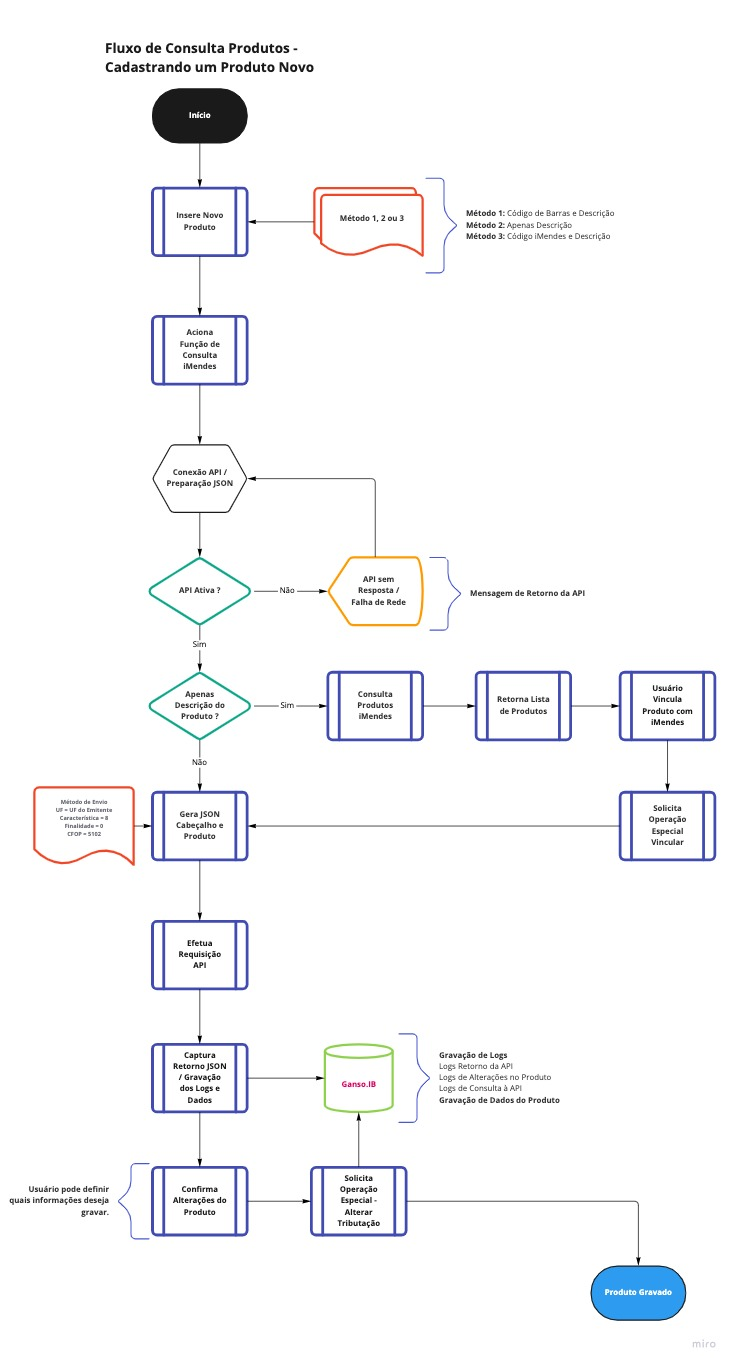
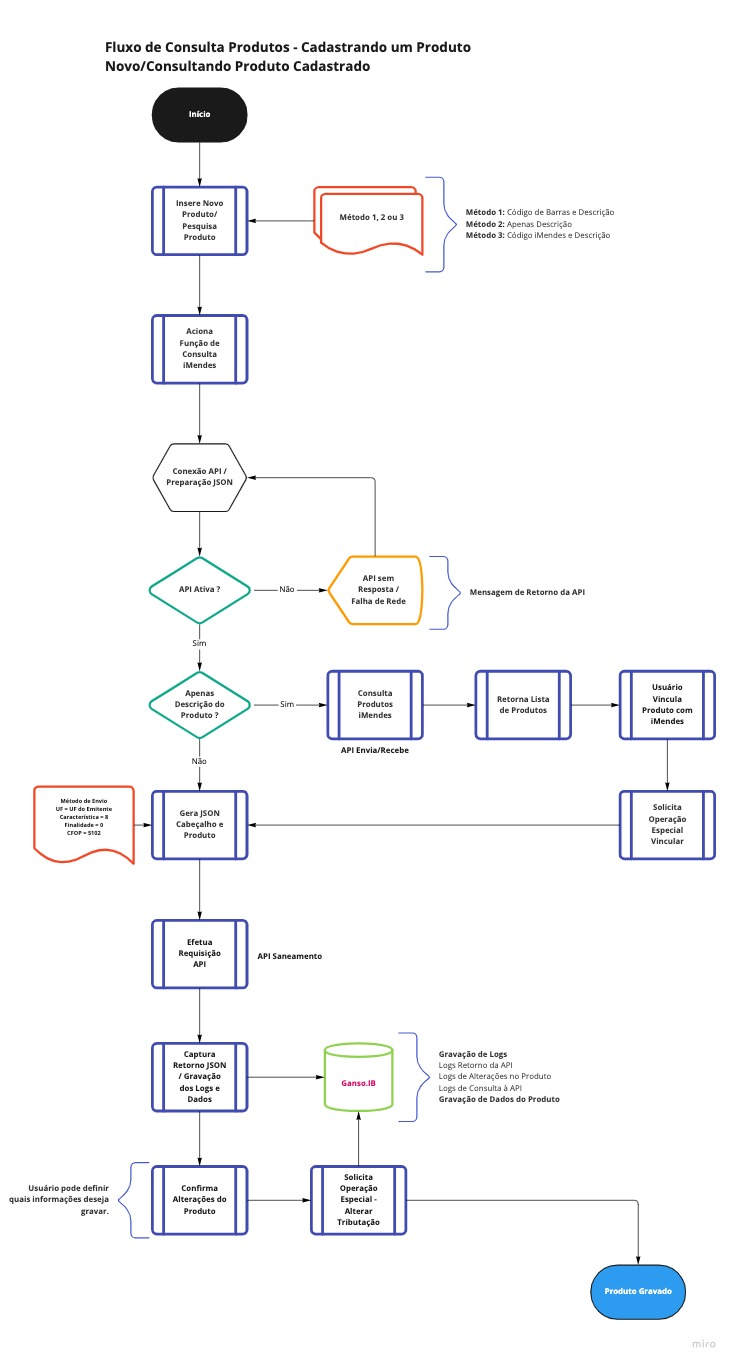
Add Batch Flow
- batch flow
- rules for batch search
- new elementos

diff --git a/Requirements.md b/Requirements.md
@@ -29,15 +29,20 @@
       - [Destino: Tabela Produto Parâmetros](#destino-tabela-produto-parâmetros)
   - [Recurso 2 - Consulta Tributos em Lote - Gerenciador de Tributação](#recurso-2---consulta-tributos-em-lote---gerenciador-de-tributação)
     - [Regras da Consulta em Lote](#regras-da-consulta-em-lote)
-    - [Métodos Básicos](#métodos-básicos)
+    - [Métodos Padrão](#métodos-padrão)
       - [Interface do Usuário](#interface-do-usuário)
-      - [Comportamento da Interface do Usuário](#comportamento-da-interface-do-usuário)
+      - [Validações da Interface do Usuário](#validações-da-interface-do-usuário)
+    - [Fluxo de Consulta em Lote](#fluxo-de-consulta-em-lote)
     - [Métodos Avançados](#métodos-avançados)
       - [Consulta Produtos Pendentes ou Devolvidos](#consulta-produtos-pendentes-ou-devolvidos)
       - [Remover Produtos da Base iMendes](#remover-produtos-da-base-imendes)
   - [Controle de Acesso e Acessos Restritos](#controle-de-acesso-e-acessos-restritos)
   - [Tabela de Validações do MVP](#tabela-de-validações-do-mvp)
   - [Relatórios Gerenciais - Logs](#relatórios-gerenciais---logs)
+- [Simulações](#simulações)
+  - [Consulta Cadastro de Produtos](#consulta-cadastro-de-produtos)
+  - [Consulta em Lote - Regras de Entrada](#consulta-em-lote---regras-de-entrada)
+  - [Consulta em Lote - Regras de Saída](#consulta-em-lote---regras-de-saída)
 
 # Introdução
 
@@ -82,6 +87,7 @@ Tipo de Elemento | Pai | Nome/Texto | Descritivo
 **Caixa de Seleção** | **Comportamento** | Permitir Atualização Parcial das Informações Tributárias do Produto | Parâmetro para definir se o usuário terá permissão em aceitar apenas campos específicos da Tributação consultada. Quando esta opção está desativada, não será permitido desmarcar campos na Tela exibição dos Tributos consultados
 **Caixa de Seleção** | **Comportamento** | Permitir consultar mais de uma UF no iMendes | Parâmetro para definir se o usuário terá permissão em consultar mais de uma UF de destino em uma Requisição. Requer tratamento específico para armazenar os dados, e efetuar o correto tratamento e aplicação da regra.
 **Caixa de Seleção** | **Comportamento** | Permitir consultar mais de uma Característica Tributária no iMendes | Parâmetro para definir se o usuário terá permissão em consultar mais de uma Característica Tributária de destino em uma Requisição. Requer tratamento específico para armazenar os dados, e efetuar o correto tratamento e aplicação da regra.
+**Campo** | **Comportamento** | Limite de Produtos por Consulta em Lote | Parâmetro para definir um Limite de Produtos a serem enviados em Lote durante uma Consulta Tributária. O Limite máximo da iMendes é de 1000 produtos, contudo deve ser permitido configurar envios menores de acordo a conectividade do Usuário.
 
 ## Finalidade da Operação
 A Consulta iMendes requer que uma Operação seja definida durante a composição da Consulta Tributária, que deve indicar um **Código CFOP** (correto ou não, mas válido e coeso com a operação). Deste modo, é necessário que o **Cadastro de Finalidade de Operações** seja adequado para compor a estrutura da requisição, e para que a criação de Regras Fiscais de Entrada e Saída seja possível. As alterações estão descritas abaixo:
@@ -89,8 +95,9 @@ A Consulta iMendes requer que uma Operação seja definida durante a composiçã
 Tipo de Elemento | Nome/Texto | Descritivo | Validações
 :---|:---|:---|:---
 Campo | Tipo de Movimentação | Campo para informar se a Finalidade da Operação é **Entrada ou Saída** | Obrigatório preenchimento/definição
-Campo | CFOP Padrão | Campo para informar o Código do CFOP Padrão para a Operação cadastrada | Validar se CFOP é válido, se existe na Tabela de CFOPs do Sistema Ganso definido como **Entrada ou Saída**, e se o primeiro dígito é compatível com o Tipo de Movimentação: 1,2,3 para **Entrada** / 5,6,7 para **Saída**
-Campo | Finalidade do Produto | Campo do tipo código para informar se a Finalidade do Produto se enquadra nas opções: 0 = Revenda, 1 = Insumo, 2 = Uso e Consumo ou Ativo Imobilizado | Informar pelo menos um dos códigos da lista 0 = Revenda, 1 = Insumo, 2 = Uso e Consumo ou Ativo Imobilizado
+Campo | CFOP Padrão Estadual | Campo para informar o Código do CFOP Padrão para a Operação Estadual cadastrada | Validar se CFOP é válido, se existe na Tabela de CFOPs do Sistema Ganso definido como **Entrada ou Saída**, e se o primeiro dígito é compatível com o Tipo de Movimentação: 1 para **Entrada** / 5 para **Saída**
+Campo | CFOP Padrão Interestadual | Campo para informar o Código do CFOP Padrão para a Operação cadastrada | Validar se CFOP é válido, se existe na Tabela de CFOPs do Sistema Ganso definido como **Entrada ou Saída**, e se o primeiro dígito é compatível com o Tipo de Movimentação: 2 para **Entrada** / 6 para **Saída**
+Campo | Finalidade do Produto | Campo do tipo código para informar se a Finalidade do Produto se enquadra nas opções: 0 = Revenda, 1 = Insumo ou 2 = Uso e Consumo ou Ativo Imobilizado | Informar pelo menos um dos códigos da lista 0 = Revenda, 1 = Insumo ou 2 = Uso e Consumo ou Ativo Imobilizado. Informação Obrigatória para realizar a consulta.
 
 ## Perfil Fiscal
 Além de uma Operação bem definida, a iMendes requer que seja enviada uma **Característica Tributária** que no Sistema Ganso é definido como **Perfil Fiscal**. A partir desta integração, esta informação é fundamental para que o processo de Consulta ocorra de maneira correta e os dados tributários sejam retornados de acordo com a Operação que será realizada. Portanto, deve ser obedecida a Lista fornecida pela iMendes, conforme tabela abaixo:
@@ -286,30 +293,35 @@ R001 | Limitação de Quantidade de Produtos em Lote | 1000 | 100 | Limitar o En
 R002 | Limitação de Quantidade de UFs de Envio | 26 | 5 | Limitar o Envio de UFs em Lote por Consulta
 R003 | Limitação de Tempo de Resposta da API | 5 min. | 3 min. | Limitar o Tempo de Resposta para efetuar nova Consulta
 
-### Métodos Básicos
-A integração iMendes oferece opção para usuário consultar a tributação de vários produtos em uma única requisição, observando as limitações da API e Regras definidas. Para que o recurso seja oferecido ao usuário, é necessário criar uma **Tela de Consulta em Lotes** que processará os Produtos selecionados pelo Usuário, que será descrita a seguir.
+### Métodos Padrão
+A integração iMendes oferece opção para usuário consultar a tributação de vários produtos em uma única requisição, observando as limitações da API e Regras definidas. Para que o recurso seja oferecido ao usuário, é necessário criar uma **Tela de Consulta em Lotes** que processará os Produtos selecionados pelo Usuário, conforme especificações a seguir.
 
 #### Interface do Usuário
-Abaixo estão descritos os elementos indispensáveis em uma Tela para oferecer uma boa experiência do usuário, durante a consulta de tributos por lote.
+Os elementos necessários em uma interface de consulta em lote são:
 
-Tipo | Posicionamento | Nome/Texto | Descritivo | Campos Envolvidos | Validações
-:---|:---|:---|:---|:---|:---
-Grupo | Topo da Tela | Filtros | Grupo de informações contendo os campos necessários para realizar filtros e localizar Produtos para compor um Lote | Empresa Filial, Descrição do Produto, Marca, Seção, Grupo, Subgrupo, Ambiente de Utilização, Fornecedor Padrão, Agrupamento de Preços, Referência Fabricante e Auxiliar, Localização, Status do Produto, Código iMendes, Enviados para Saneamento | Validar: Código da Empresa, Hierarquia de Segmentação, Parâmetro "Não Tributar pelo iMendes" e Enviado para iMendes [Ver Campos do Produto](#campos-necessários)
-Campo | Grupo de Filtros | Limite por Lote | Campo para usuário informar quantos produtos serão enviados no Lote de Consulta. [Ver Regra 001 Consulta em Lote](#regras-da-consulta-em-lote) | Parametrização do Limite de envio de Produtos em Lote | Restringir envio de Lote de Produtos acima do Limite de 1000 e obedecer o Parâmetro Configurado
-Botão | Grupo de Filtros | Pesquisar Produtos | Ação para Usuário acionar a pesquisa de produtos com os critérios informados | Todos os dados informados | Se nenhum filtro for preenchido, informar ao usuário que a Consulta retornará todos os Produtos, contudo apenas 1000 produtos poderão ser enviados de uma só vez devido ao Limite de Envio por lote.
-Campo | Grupo Operações | Finalidade da Operação | Campo para definir a Natureza da Operação do Perfil a ser Consultada para os Respectivos Produtos. A operação trata-se do ```"cfop"``` e estas operações deverão ser definidas a partir da integração, o usuário não poderá definir este código manualmente e sim, o Sistema oferecer as Finalidades Cadastradas para Consulta. A iMendes requer uma Operação por Requisição, caso houver necessidade em Consultar mais de uma Operação para os mesmos produtos, é necessário criar uma Requisição para cada Operação | Finalidade da Operação. [Ver Seção Finalidade da Operação](#finalidade-da-operação) | Informar pelo menos uma Finalidade de Operação
-Campo | Grupo Operações | Característica Tributária | Campo para definir a Característica Tributária do Perfil Consultado | Perfil Fiscal. [Ver Perfil Fiscal](#perfil-fiscal) | Informar pelo menos uma Característica Tributária
-Campo | Grupo Operações | UF de Origem/Destino | Campo para definir as UFs das quais o usuário deseja obter a tributação para a Operação definida | Campo Livre | Limitar Preenchimento a 5 UFs. [Ver Regra R002 da Consulta em Lote](#regras-da-consulta-em-lote)
-Grade | Grupo Produtos | Relação de Produtos Filtrados | Grade que exibe todos os Produtos encontrados com os filtros informados pelo Usuário permitindo selecionar apenas 1000 por vez. | Código do Produto, Código de Barras, NCM, CEST, Descrição, Marca, Seção, Grupo e Subgrupo | Selecionar apenas 1000 Produtos por vez. Informar ao Usuário o Limite quando atingido.
-Texto | Abaixo do Grupo Produtos | Total Selecionado e Total de Produtos | Texto que exibe a contagem de Produtos selecionados pelo Usuário, e o Total Listado na pesquisa realizada pelo menos utilizando os filtros estabelecidos no topo da tela. | Total Selecionado / Total Listado | - 
+Elemento |  Nome/Texto | Descritivo | Conjunto de dados | Validações
+:---|:---|:---|:---|:---
+Grupo de Filtros | Filtros | Deve conter os campos necessários para realizar filtros e localizar Produtos para compor um Lote | Empresa Filial, Descrição do Produto, Marca, Seção, Grupo, Subgrupo, Ambiente de Utilização, Fornecedor Padrão, Agrupamento de Preços, Referência Fabricante e Auxiliar, Localização, Status do Produto, Produtos com Código iMendes, Produtos Enviados para Saneamento | Validar: Código da Empresa, Hierarquia de Segmentação, Parâmetro "Não Tributar pelo iMendes" e Enviado para iMendes [Ver Campos do Produto](#campos-necessários)
+Campo | Limite por Lote | Campo para usuário informar quantos produtos serão enviados no Lote de Consulta. [Ver Regra 001 Consulta em Lote](#regras-da-consulta-em-lote) | Parâmetro do Limite de envio de Produtos em Lote | Restringir envio de Lote de Produtos acima do Limite de 1000 ou obedecer o Parâmetro Configurado [Ver Parâmetros](#regras-parametrizáveis)
+Botão de Ação | Pesquisar Produtos | Ação para Usuário acionar a pesquisa de produtos com os critérios informados no Grupo de Filtros | Todos os dados informados | Se nenhum filtro for preenchido, informar ao usuário que a Consulta retornará todos os Produtos, contudo apenas 1000 produtos poderão ser enviados de uma só vez devido ao Limite de Envio por lote.
+Grade com Caixa de Seleção | Relação de Produtos Filtrados | Grade que exibe todos os Produtos encontrados com os filtros informados pelo Usuário permitindo selecionar apenas 1000 por vez. | Código do Produto, Código de Barras, NCM, CEST, Descrição, Marca, Seção, Grupo e Subgrupo | Selecionar apenas 1000 Produtos por vez. Informar ao Usuário o Limite quando atingido.
+Texto Informativo | Total Selecionado e Total de Produtos Listados | Texto que exibe a contagem de Produtos selecionados pelo Usuário, e o Total Listado na pesquisa realizada pelo mesmo utilizando os filtros estabelecidos no topo da tela. | Total Selecionado / Total Listado | - 
+Caixa de Combinação | Finalidade da Operação | Campo para definir a Natureza da Operação do Perfil a ser Consultado para os Respectivos Produtos. A operação trata-se do ```"cfop"``` e estas operações deverão ser definidas a partir da integração, o usuário não poderá definir este código manualmente e sim, o Sistema oferecer as Finalidades Cadastradas para Consulta. A iMendes requer uma Operação por Requisição, caso houver necessidade em Consultar mais de uma Operação para os mesmos produtos, é necessário criar uma Requisição para cada Operação | Cadastro de Finalidade da Operação. [Ver Seção Finalidade da Operação](#finalidade-da-operação) | Informar obrigatoriamente uma Finalidade de Operação.
+Caixa de Combinação | Característica Tributária | Campo para definir a Característica Tributária do Perfil Consultado | Cadastro de Perfil Fiscal. [Ver Seção Perfil Fiscal](#perfil-fiscal) | Informar obrigatoriamente uma Característica Tributária
+Campo | UFs de Origem/Destino | Campo para definir as UFs das quais o usuário deseja obter a tributação para a Operação definida | Campo Livre com validações | Validar a digitação do Usuário, verificando se é uma UF válida, e não permitir repetição. Limitar Preenchimento a 5 UFs. [Ver Regra R002 da Consulta em Lote](#regras-da-consulta-em-lote)
+Botão de Ação | Consultar Tributação | Botão de Ação para ativar a Consulta em Lote dos produtos selecionados conforme os parâmetros definidos pelo Usuário | Todos os dados informados | -
+Botão de Ação | Verificar Pendentes/Devolvidos | Botão para acionar a API **Envia/Recebe Dados** para verificar os Produtos alterados pela iMendes quando o cadastro de Produtos foi enviado para Saneamento ou para Consultar as Alterações Tributárias | Produtos marcados como "Enviado para Saneamento" [Ver Seção Cadastro de Produtos/Campos Necessários](#campos-necessários) | Verificar Operações Especiais para acionar a função
 
-#### Comportamento da Interface do Usuário
-Neste tópico, são descritos os Comportamentos e Interações que as Rotinas da Consulta em Lote deve realizar conforme o **Percurso realizado pelo Usuário**.
+#### Validações da Interface do Usuário
+Neste tópico, são descritos os comportamentos e interações que as Rotinas da **Consulta em Lote** devem realizar conforme as **Ações do Usuário**.
 
-Ação | Resposta | Contra Medida
+Ação | Validação | Resposta ao Usuário
 :---|:---|:---
-Consultar Produtos acima do Limite | Exibir uma Mensagem ao Usuário | Retornar à tela anterior
-Consultar Produtos sem resposta | Exibir uma Mensagem ao Usuário informando quantos produtos não foram encontrados e oferecer um meio de visualização ou impressão destes dados | Retornar à tela anterior
+Ação **Consultar Tributos** | Verificar Produtos Marcados pelo Usuário que não possuam Código de Barras GTIN, Código iMendes e que Não foram enviados para Saneamento para iMendes |  Exibir uma mensagem de confirmação informando que "Alguns produtos poderão não obter retorno de tributação", exibir a quantidade de Produtos e Salvar estes para verificação posterior.
+
+
+### Fluxo de Consulta em Lote
+![Fluxo de Consulta em Lote](./Batch-Search-Flow.jpeg)
   
 
 ### Métodos Avançados
@@ -346,3 +358,9 @@ VF 7 | Implementar mensagem de **Sugestão de Contratação da iMendes** para ca
 
 ## Relatórios Gerenciais - Logs
 Construir Relatório de Auditoria dos Produtos iMendes, para exibir o Histórico de Alterações.
+
+# Simulações
+
+## Consulta Cadastro de Produtos
+## Consulta em Lote - Regras de Entrada
+## Consulta em Lote - Regras de Saída
